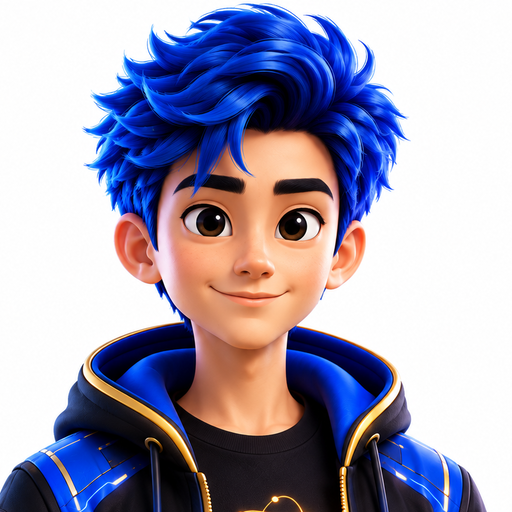
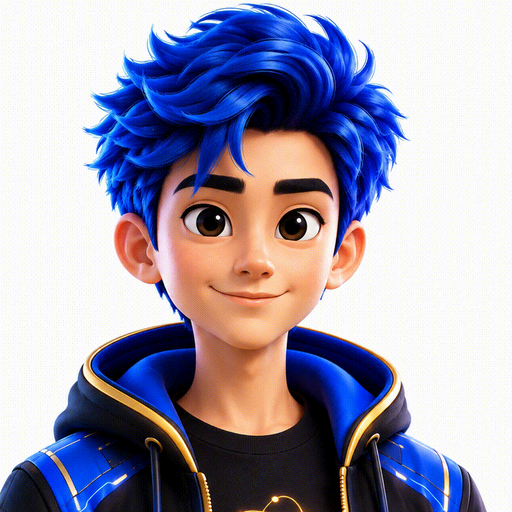
Jérémie : nouveau portrait + fix régression "icône géante" à l'ouverture du chat
Nouveau portrait installé (même crop/coordonnées yeux que le précédent,
composition quasi identique, revérifié visuellement par rendu headless).

Fix réel trouvé en creusant le signalement "l'icône est en grand sur le
fond d'écran à l'ouverture de la conversation" : le commit précédent a
ajouté .jeremie-avatar-inner{position:absolute;inset:0} à l'intérieur de
_jeremieAvatarMarkup(), mais celle-ci est aussi utilisée dans
.jeremie-greet-avatar (l'avatar 64px du message d'accueil) — qui, contrairement
à .jeremie-avatar-clip, n'avait pas position:relative. Sans ancêtre positionné,
inset:0 remontait jusqu'au premier ancêtre positionné réel (bien plus grand),
faisant gonfler l'avatar à l'ouverture du chat. Reproduit et vérifié corrigé
par rendu headless isolé avant/après.

diff --git a/app.html b/app.html
@@ -2188,7 +2188,7 @@ a{text-decoration:none;color:inherit}
 #jeremie-sheet.immersive .jeremie-immersive-avatar{display:flex;}
 .jeremie-avatar-clip-lg{width:140px;height:140px;box-shadow:0 0 30px rgba(255,215,0,.4);}
 .jeremie-emotion-badge-lg{width:30px;height:30px;font-size:20px;}
-.jeremie-greet-avatar{width:64px;height:64px;border-radius:50%;margin:0 auto 12px;overflow:hidden;background:radial-gradient(circle at 30% 24%,#1c2c52,#0d1730 60%,#05070f 100%);box-shadow:0 0 18px rgba(255,215,0,.5),0 0 0 1px rgba(255,215,0,.35);}
+.jeremie-greet-avatar{position:relative;width:64px;height:64px;border-radius:50%;margin:0 auto 12px;overflow:hidden;background:radial-gradient(circle at 30% 24%,#1c2c52,#0d1730 60%,#05070f 100%);box-shadow:0 0 18px rgba(255,215,0,.5),0 0 0 1px rgba(255,215,0,.35);}
 #jeremie-sheet .chat-messages{position:relative;z-index:1;}
 #jeremie-sheet .chat-compose{position:relative;z-index:1;padding-bottom:calc(10px + var(--safe));align-items:flex-end;}
 #jeremie-sheet .chat-text-input{border-radius:22px;padding:11px 16px;resize:none;max-height:120px;min-height:42px;line-height:1.35;overflow-y:auto;}
